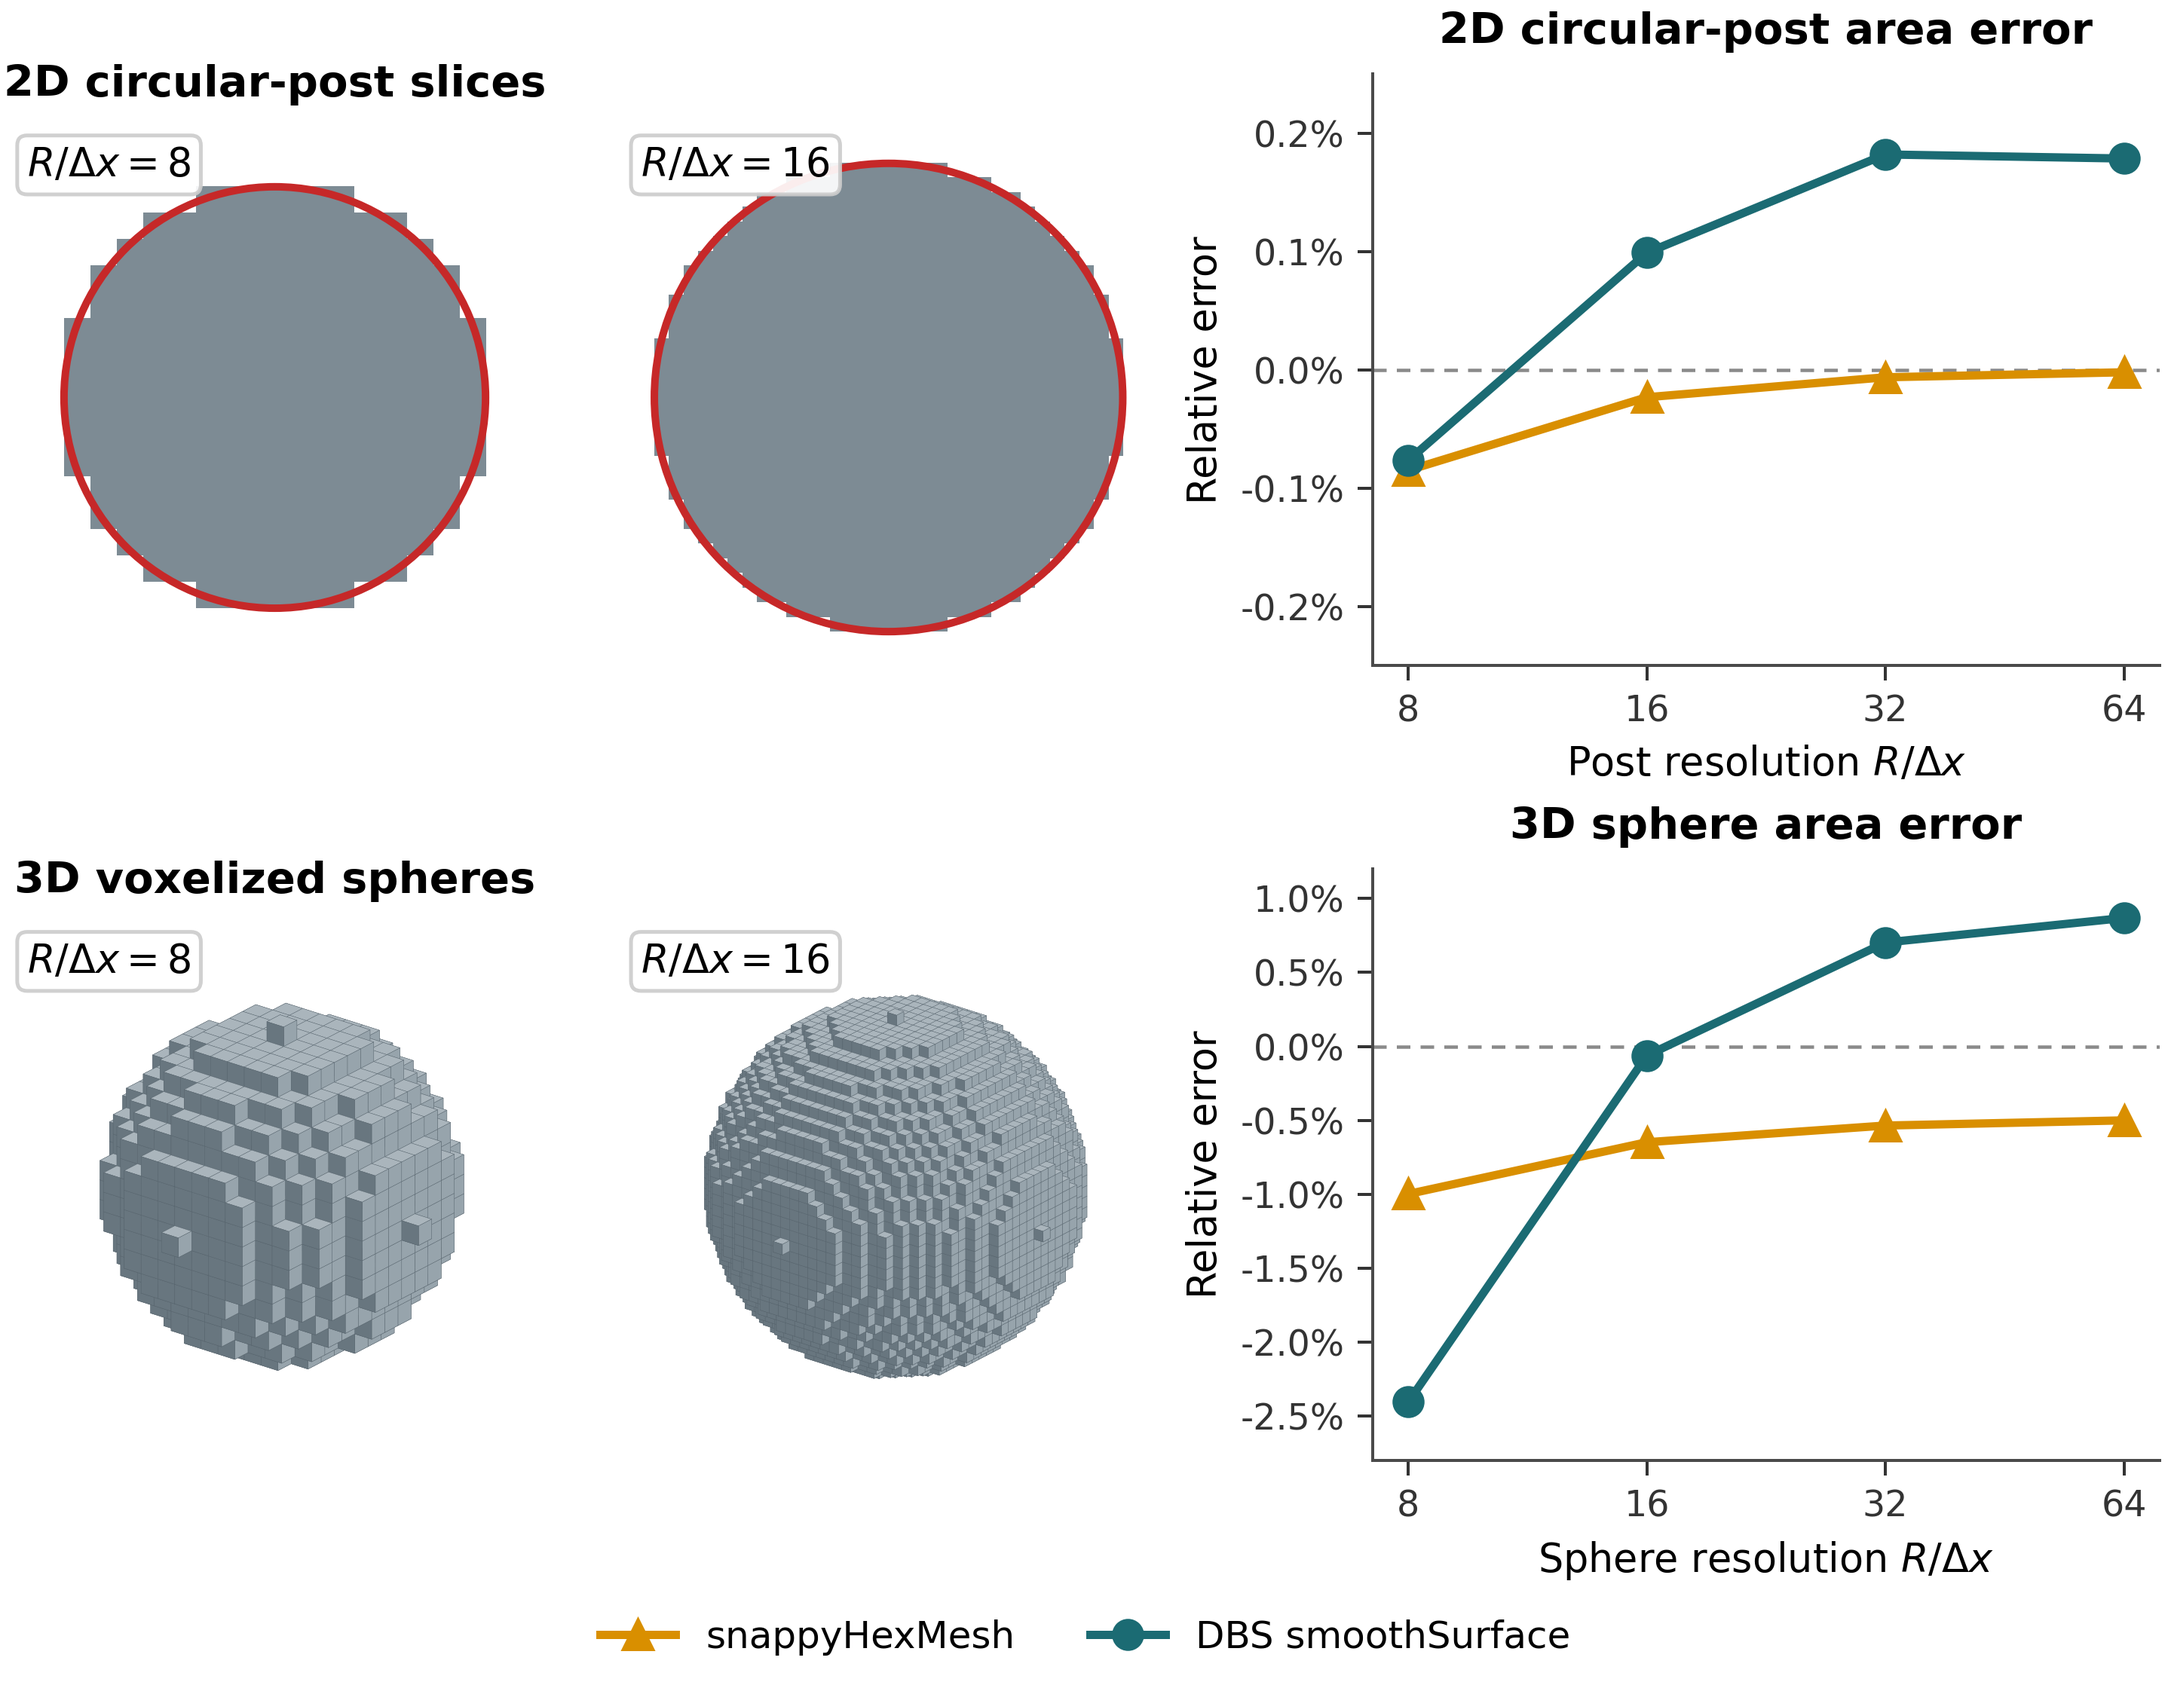
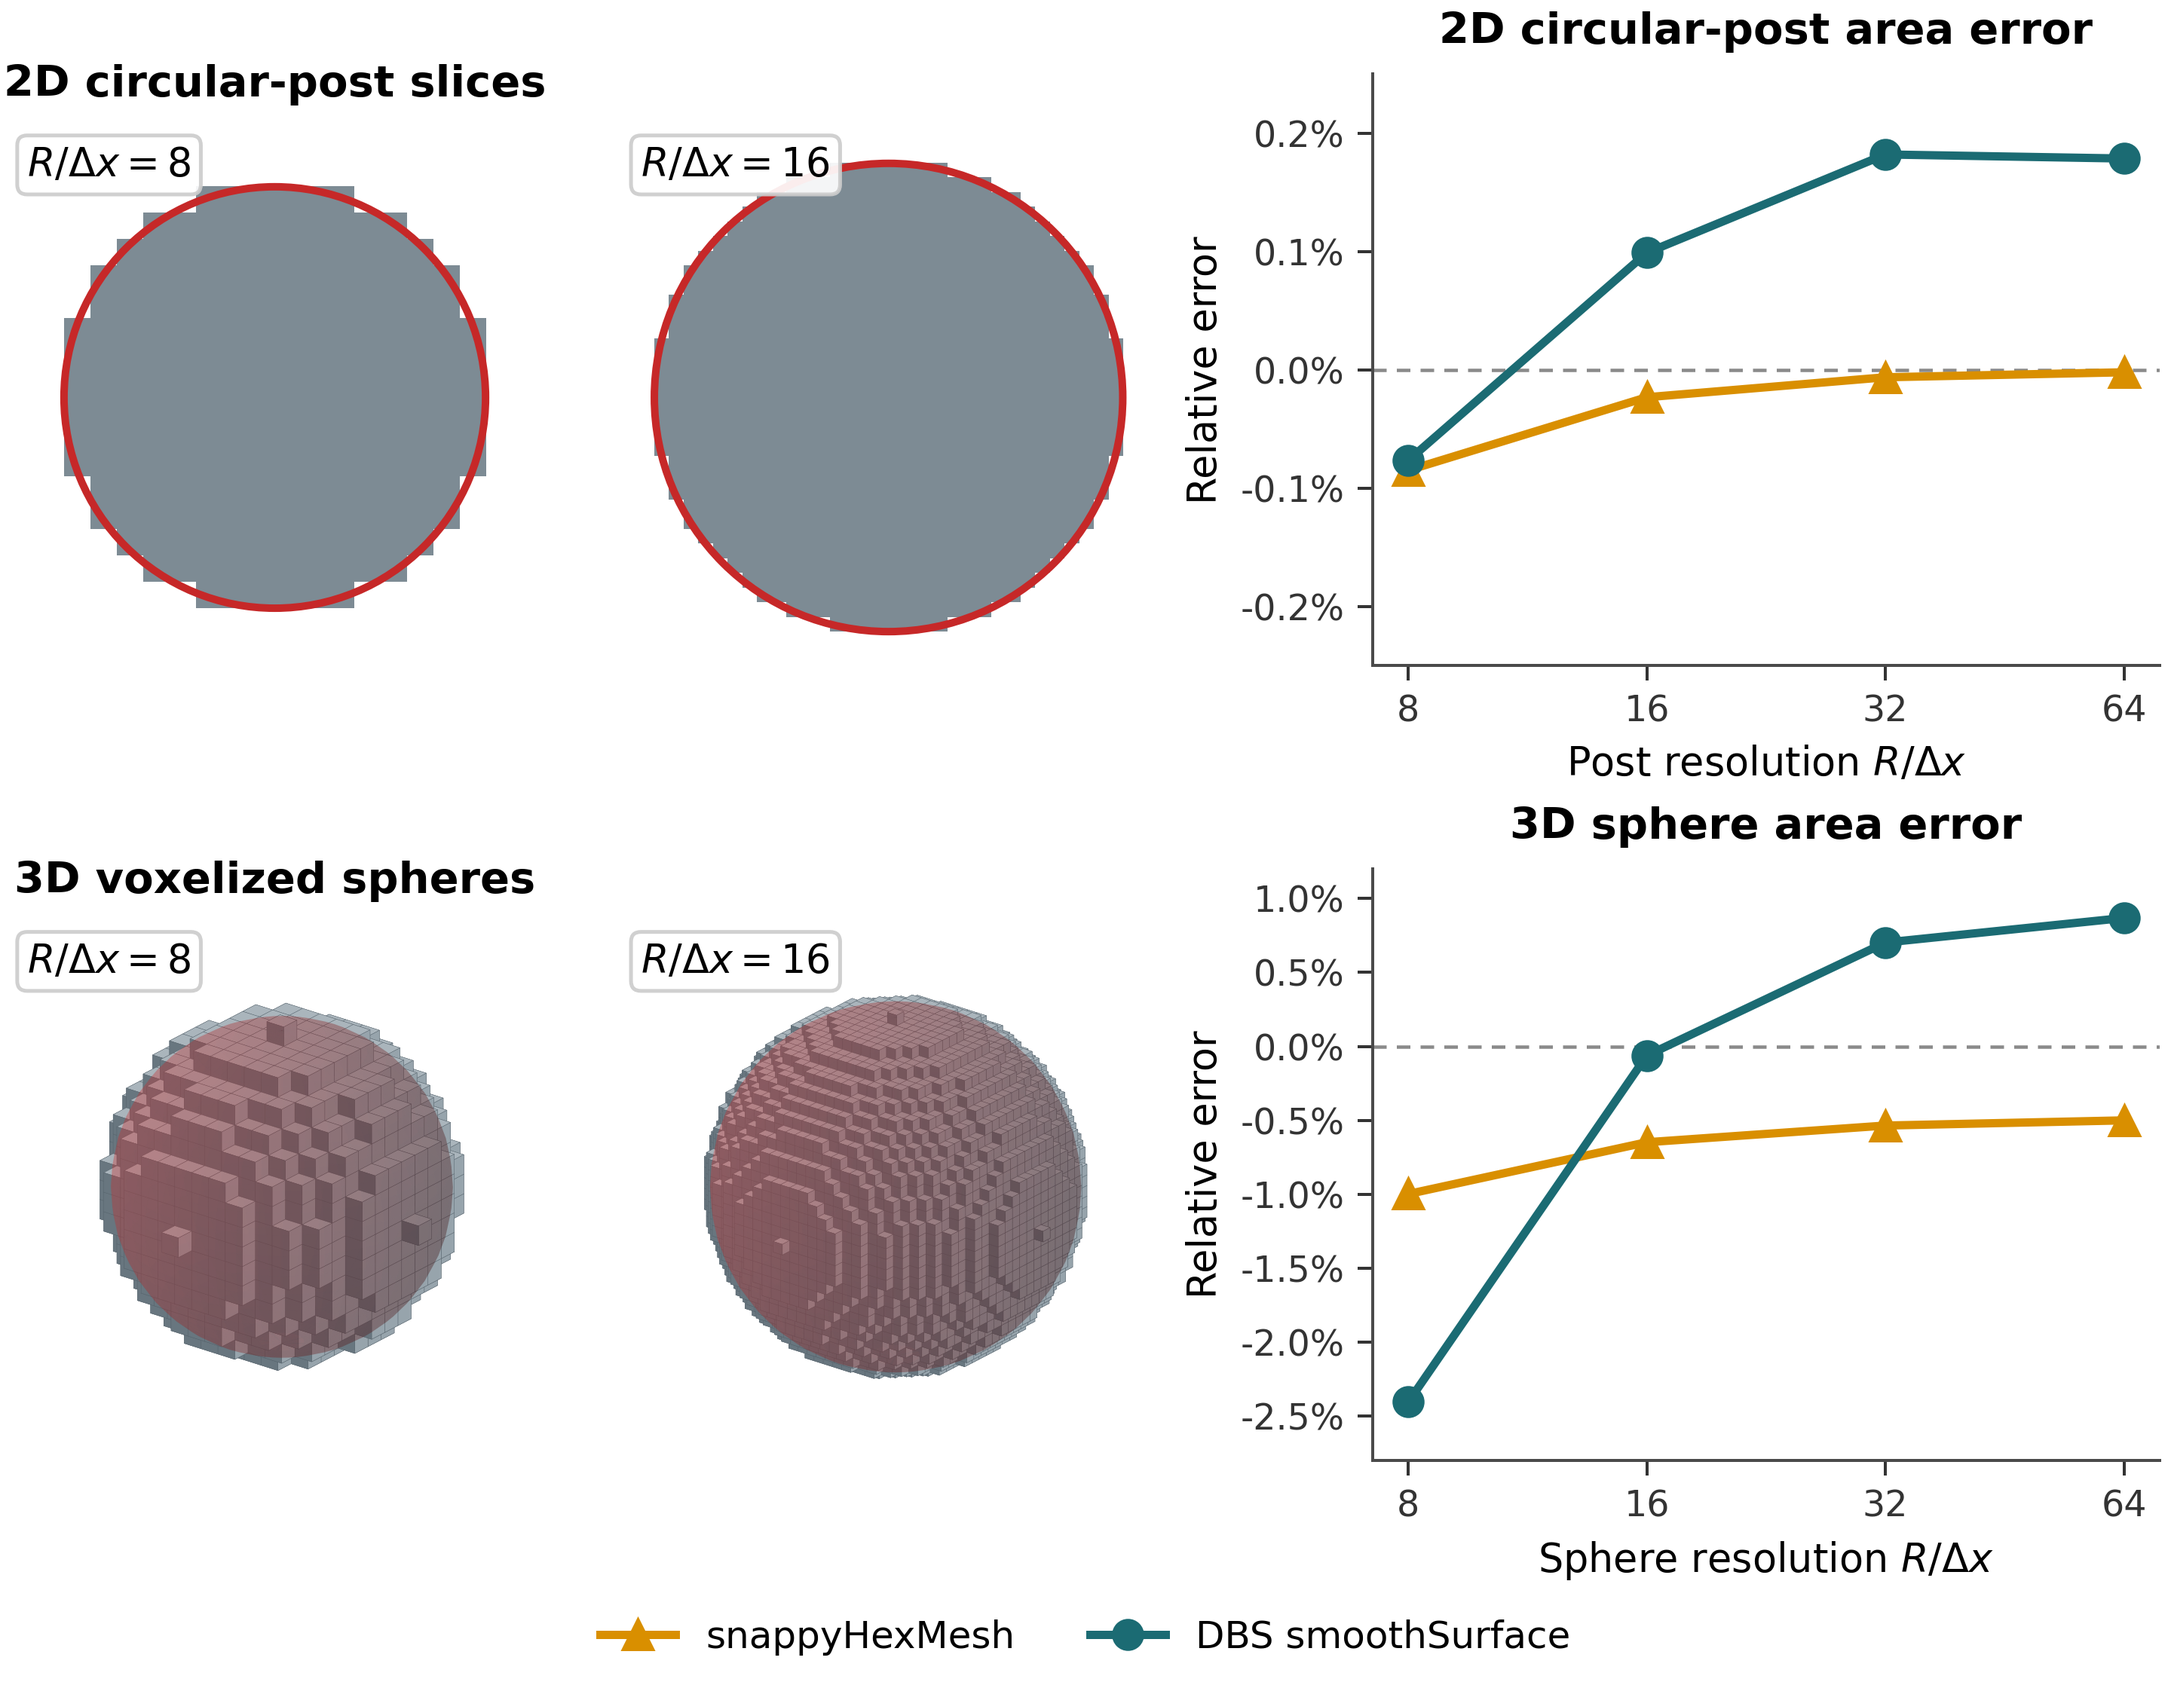
Overlay analytic spheres in surface validation

Changed region(s): [[0.3125, 0.5874, 0.5, 0.8347], [0.0312, 0.5874, 0.2188, 0.8038]]

diff --git a/papers/scalarTransportDBSFoam-phreeqc-surface-complexation/figures/scripts/generate_sphere_surface_area_validation.py b/papers/scalarTransportDBSFoam-phreeqc-surface-complexation/figures/scripts/generate_sphere_surface_area_validation.py
@@ -149,6 +149,7 @@ def circular_post_series(
 
 def plot_sphere_render(ax, case_dir: Path) -> None:
     """Render the exterior faces of the voxelized sphere."""
+    ax.computed_zorder = False
     volume, meta = load_generated_case(case_dir)
     solid_mask = volume == int(meta["solid_value"])
     cropped, (z0, y0, x0) = crop_mask(solid_mask, pad=1)
@@ -162,6 +163,7 @@ def plot_sphere_render(ax, case_dir: Path) -> None:
             edgecolors="#56636c",
             linewidths=0.08,
             zsort="average",
+            zorder=2,
         )
     )
 
@@ -169,6 +171,22 @@ def plot_sphere_render(ax, case_dir: Path) -> None:
     cx = meta["nx"] / 2.0 - x0
     cy = meta["ny"] / 2.0 - y0
     cz = meta["nz"] / 2.0 - z0
+    u = np.linspace(0.0, 2.0 * np.pi, 49)
+    v = np.linspace(0.0, np.pi, 25)
+    sphere_x = cx + radius * np.outer(np.cos(u), np.sin(v))
+    sphere_y = cy + radius * np.outer(np.sin(u), np.sin(v))
+    sphere_z = cz + radius * np.outer(np.ones_like(u), np.cos(v))
+    ax.plot_surface(
+        sphere_x,
+        sphere_y,
+        sphere_z,
+        color="#d32f2f",
+        alpha=0.20,
+        linewidth=0.0,
+        antialiased=True,
+        shade=True,
+        zorder=4,
+    )
     margin = 1.5
     ax.set_xlim(cx - radius - margin, cx + radius + margin)
     ax.set_ylim(cy - radius - margin, cy + radius + margin)

diff --git a/papers/scalarTransportDBSFoam-phreeqc-surface-complexation/sections/05_validation.tex b/papers/scalarTransportDBSFoam-phreeqc-surface-complexation/sections/05_validation.tex
@@ -176,7 +176,8 @@ route used in the micromodel validation.
     \caption{Controlled surface-area validation for the quasi-2D and 3D
     smooth-interface reconstructions. Left: voxelized circular-post slices,
     with the analytic circular interface shown in red, and three-dimensional
-    renderings of the voxelized spheres at $R/\Delta x = 8$ and 16. Right:
+    renderings of the voxelized spheres at $R/\Delta x = 8$ and 16, overlaid
+    by the semi-transparent red analytic spheres. Right:
     relative integrated surface-area error for the 2D circular post
     ($A_{\mathrm{ref}} = 2 \pi R h$) and 3D sphere
     ($A_{\mathrm{ref}} = 4 \pi R^2$). The \texttt{smoothSurface}
